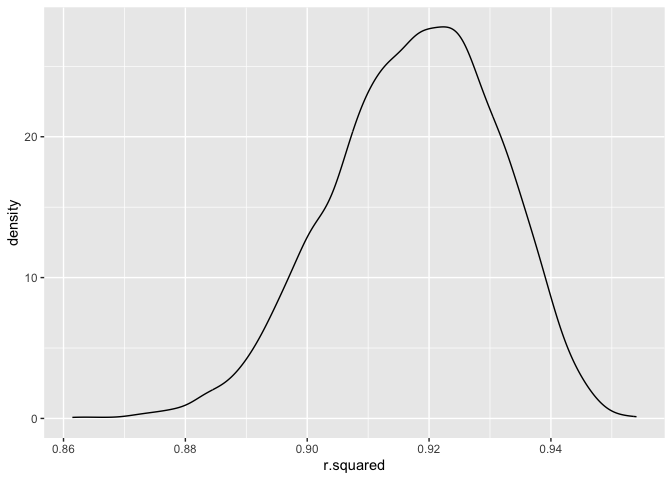
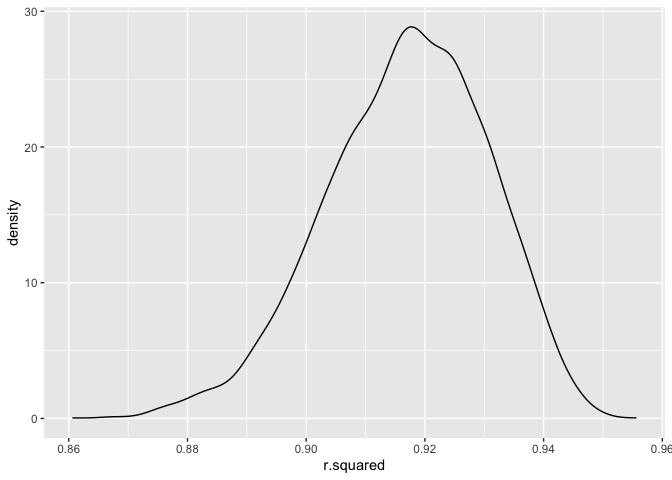
complete

diff --git a/p8105_hw6_rd3097.md b/p8105_hw6_rd3097.md
@@ -73,8 +73,8 @@ summarize(r_squared_lower = quantile(r.squared, 0.025),
 ```
 
 From the r squared distribution graph, we can see it looks a little bit
-left skewed, and it has mean 0.9175315 and standard deviation 0.0135754.
-The 95% confidence interval for r squared is 0.8894992 to 0.9409793
+left skewed, and it has mean 0.9169379 and standard deviation 0.0136696.
+The 95% confidence interval for r squared is 0.8879807 to 0.9407608
 
 ``` r
 #Then we produce estimate for log beta0 * beta 1
@@ -104,8 +104,8 @@ beta<-beta_estimate%>%
 ```
 
 From the log(b0\*b1) graph, we can see it is normally distributed with
-mean of 2.0982796 and standard deviation 0.0211613. The confidence
-interval is ( 2.0558094 , 2.1378333 ).
+mean of 2.0983769 and standard deviation 0.0211468. The confidence
+interval is ( 2.0564076 , 2.13905 ).
 
 ### Problem 3
 
@@ -167,12 +167,6 @@ model_plot<-clean_birthweight%>%
 ```
 
 ``` r
-# One model using length at birth and gestational age as predictors 
-model_1 <- lm(bwt ~ blength + gaweeks, data = clean_birthweight)
-
-# One model using head circumference, length, sex, and all interactions between these
-model_2 <- lm(bwt ~ bhead + blength + babysex + bhead * blength * babysex, data = clean_birthweight)
-
 # Make comparison in terms of the cross-validated prediction error between these two model with our model_lm
 
  cv_df =
@@ -184,8 +178,10 @@ model_2 <- lm(bwt ~ bhead + blength + babysex + bhead * blength * babysex, data 
 rmse_df <- cv_df%>%
   mutate(
     model_lm = map(train, ~lm(bwt ~gaweeks+malform+smoken+mrace, data = clean_birthweight), data = .x),
-    model_1  = map(train, ~lm(bwt ~ gaweeks + blength, data = .x)),
-    model_2  = map(train, ~lm(bwt ~ bhead*blength*babysex, data = .x)),
+    # One model using length at birth and gestational age as predictors 
+    model_1  = map(train, ~lm(bwt ~ blength + gaweeks, data = .x)),
+    # One model using head circumference, length, sex, and all interactions between these
+    model_2  = map(train, ~lm(bwt ~ bhead * blength * babysex, data = .x)),
     rmse_lm = map2_dbl(model_lm, test, ~rmse(model = .x, data = .y)),
     rmse_1 = map2_dbl(model_1, test, ~rmse(model = .x, data = .y)),
     rmse_2 = map2_dbl(model_2, test, ~rmse(model = .x, data = .y)))
